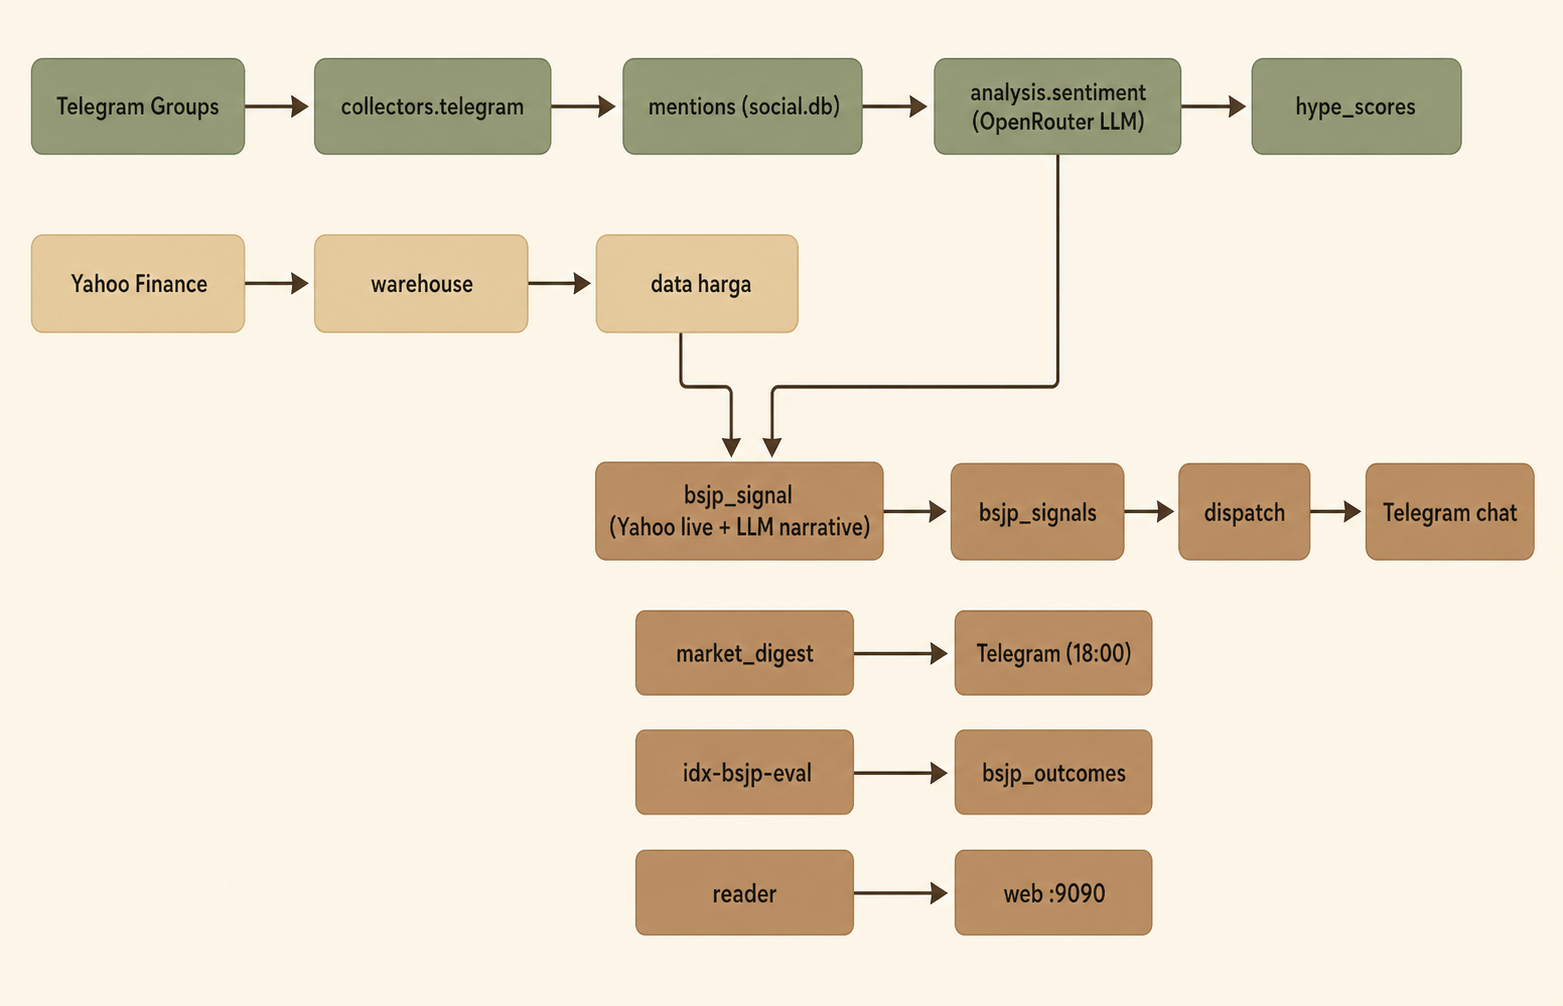
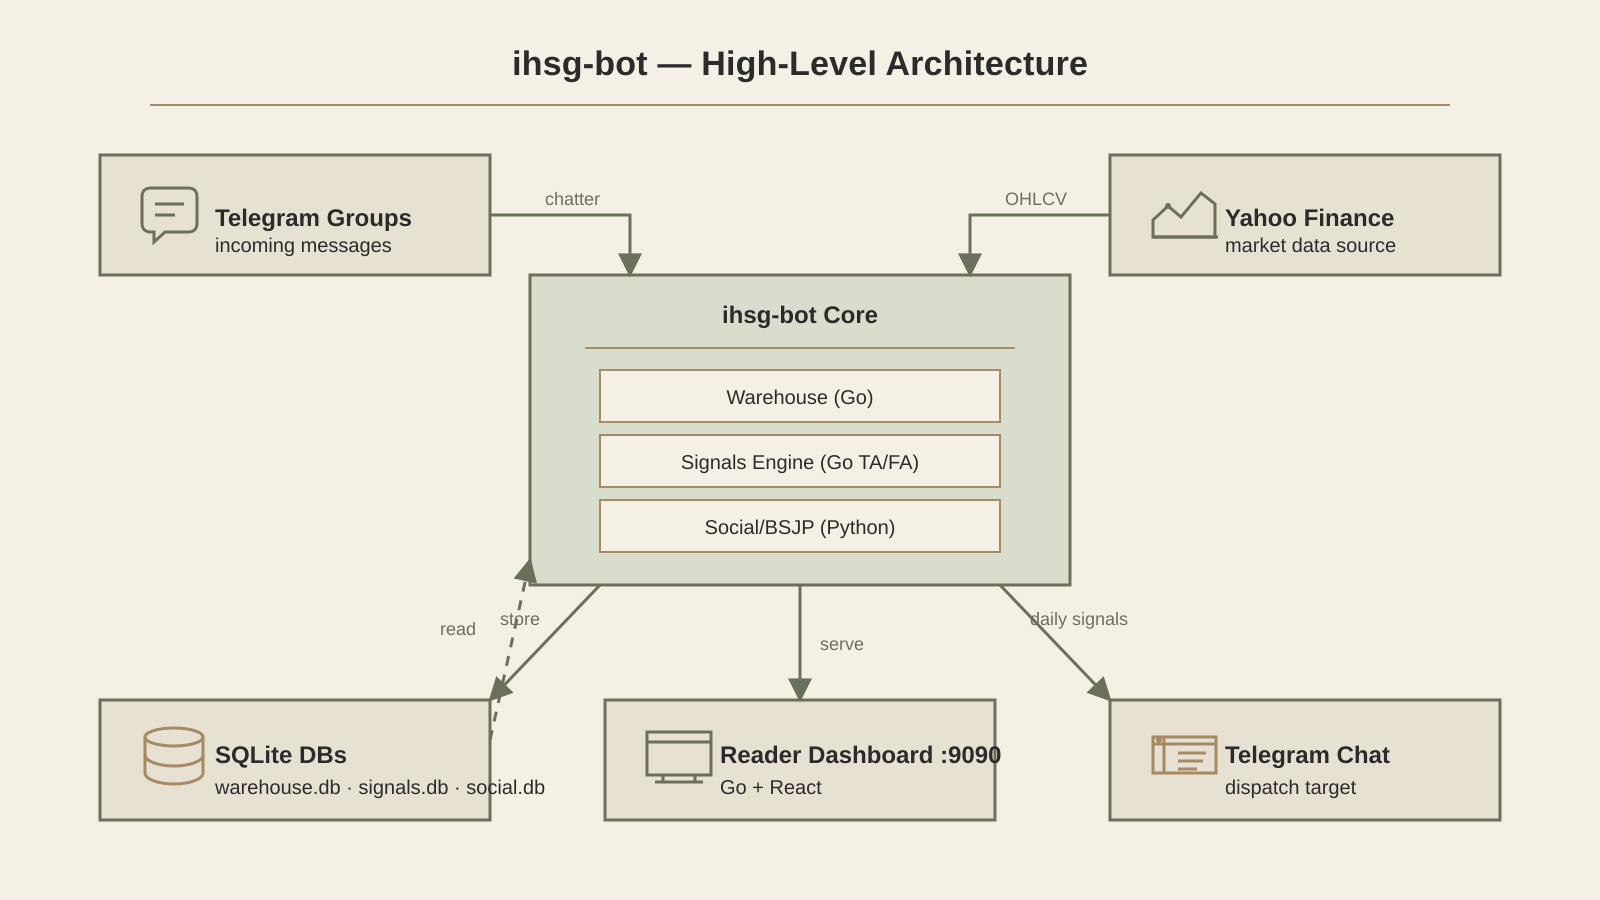
update(ihsg-bot-article): remove image note, high-level EN diagram
- Drop 'I generated the diagram' callout
- Replace diagram with clean high-level architecture (1600x900, English
  only): Telegram/Yahoo -> Core -> DBs/Chat/Dashboard

diff --git a/content/articles/ihsg-bot-architecture.md b/content/articles/ihsg-bot-architecture.md
@@ -38,9 +38,7 @@ I split ihsg-bot into three service groups in different languages, all connected
 
 Everything is orchestrated by **systemd timers** on ponkai, with a **Hermes cron** helping out for the daily digest.
 
-![ihsg-bot architecture — data flow from Telegram to signal](/images/articles/ihsg-bot/architecture.png)
-
-> **Image note:** I generated the diagram above (and the cover) separately. Explanations of each component are below.
+![ihsg-bot architecture — high-level data flow](/images/articles/ihsg-bot/architecture.png)
 
 ---
 